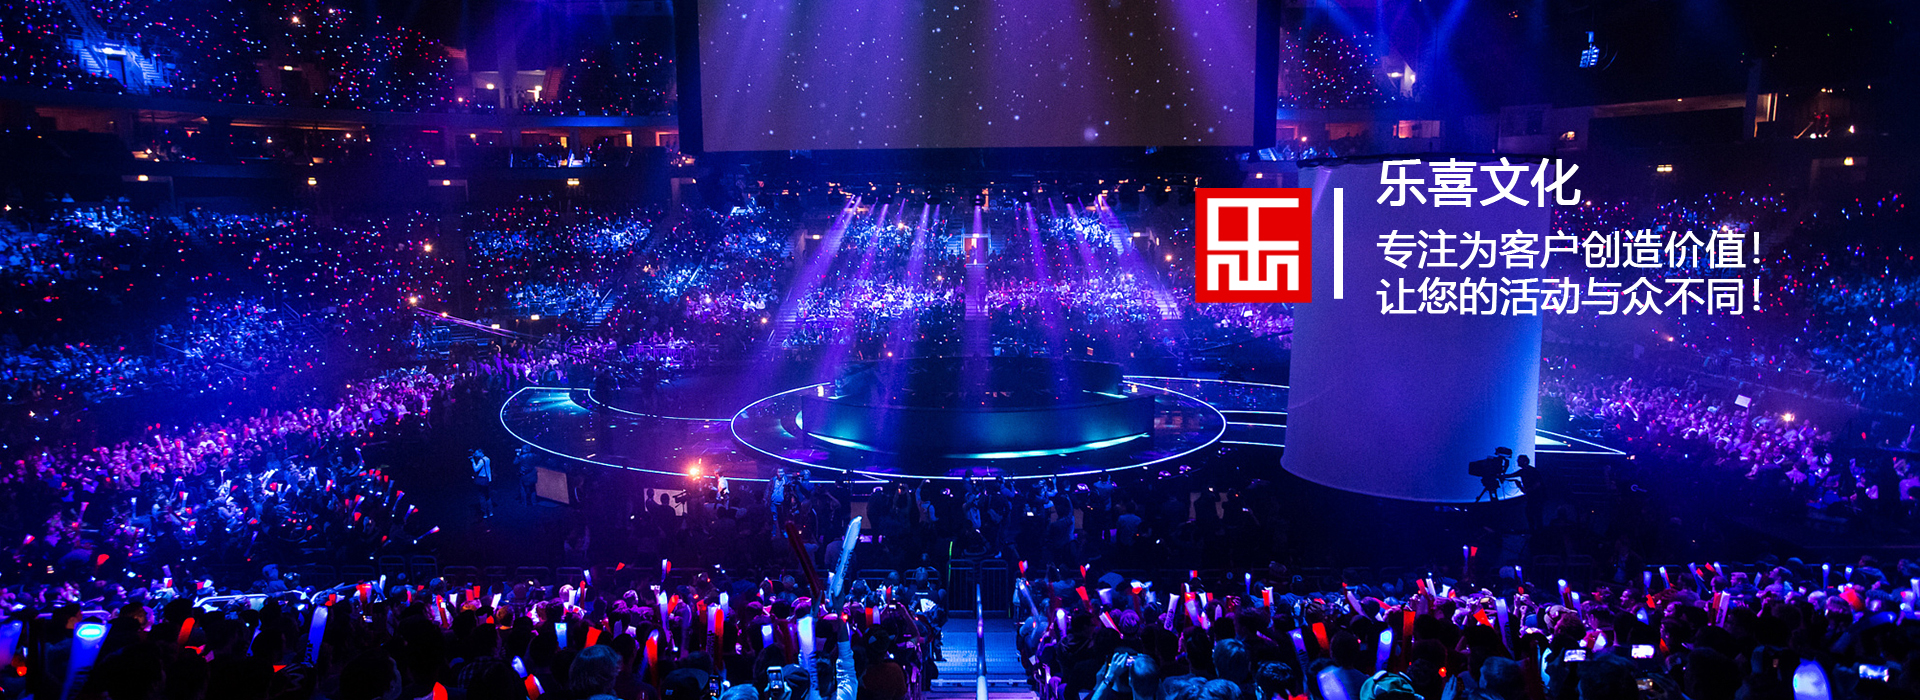
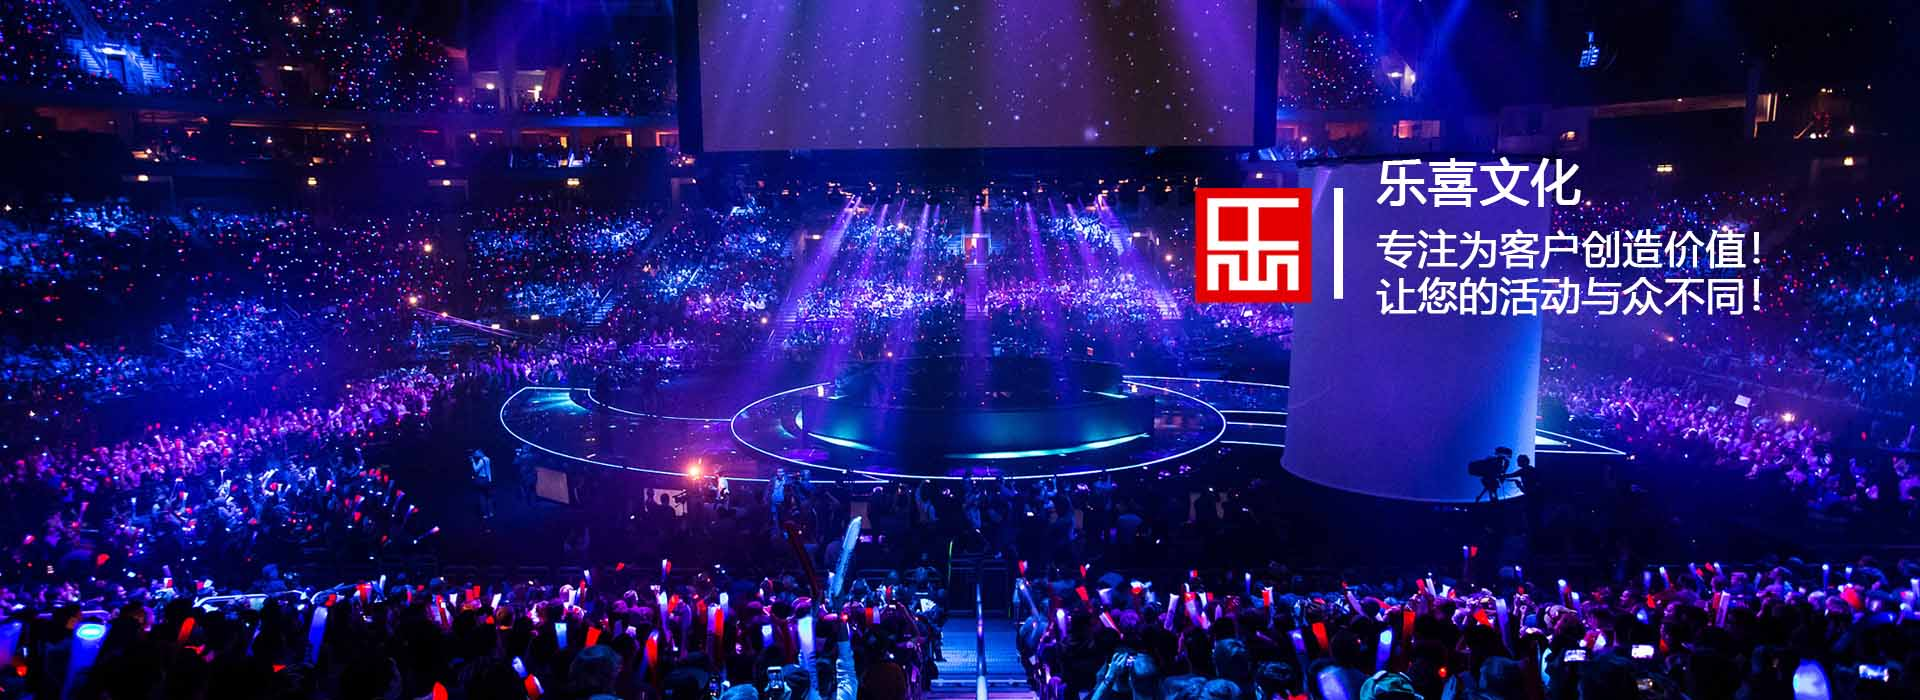
修改图片，替换小的图片，解决加载慢问题。

diff --git a/src/case.html b/src/case.html
@@ -100,7 +100,7 @@
       <div class="case-item">
         <!-- 图片 -->
         <a href="./case.html?item=guoji" target="_blank">
-          <img src="./images/case/guoji/guoji-01.png" alt="">
+          <img src="./images/case/guoji/guoji-01.jpg" alt="">
         </a>
         <!-- 标题 -->
         <a class="case-title" href="./case.html?item=guoji" target="_blank">国际花卉园艺展览会活动</a>
@@ -114,7 +114,7 @@
       <div class="case-item">
         <!-- 图片 -->
         <a href="./case.html?item=jiashi" target="_blank">
-          <img src="./images/case/jiashi/jiashi-01.png" alt="">
+          <img src="./images/case/jiashi/jiashi-01.jpg" alt="">
         </a>
         <!-- 标题 -->
         <a class="case-title" href="./case.html?item=jiashi" target="_blank">嘉士伯啤酒品鉴会活动</a>
@@ -128,7 +128,7 @@
       <div class="case-item">
         <!-- 图片 -->
         <a href="./case.html?item=qinghua" target="_blank">
-          <img src="./images/case/qinghua/qianghua-01.png" alt="">
+          <img src="./images/case/qinghua/qianghua-01.jpg" alt="">
         </a>
         <!-- 标题 -->
         <a class="case-title" href="./case.html?item=qinghua" target="_blank">清华同方年会</a>
@@ -143,12 +143,12 @@
     <!-- 地平线年会 -->
     <div class="dipingxian">
       <div class="title">地平线年会:</div>
-      <img src="./images/case/dipingxian/diping-011.png" alt="">
-      <img src="./images/case/dipingxian/diping-02.png" alt="">
-      <img src="./images/case/dipingxian/diping-03.png" alt="">
-      <img src="./images/case/dipingxian/diping-04.png" alt="">
-      <img src="./images/case/dipingxian/diping-05.png" alt="">
-      <img src="./images/case/dipingxian/diping-06.png" alt="">
+      <img src="./images/case/dipingxian/diping-011.jpg" alt="">
+      <img src="./images/case/dipingxian/diping-02.jpg" alt="">
+      <img src="./images/case/dipingxian/diping-03.jpg" alt="">
+      <img src="./images/case/dipingxian/diping-04.jpg" alt="">
+      <img src="./images/case/dipingxian/diping-05.jpg" alt="">
+      <img src="./images/case/dipingxian/diping-06.jpg" alt="">
     </div>
 
     <!-- 福特全系静展营销活动 -->
@@ -164,35 +164,35 @@
     <!-- 国际花卉园艺展览会活动 -->
     <div class="guoji">
       <div class="title">国际花卉园艺展览会活动:</div>
-      <img src="./images/case/guoji/guoji-01.png" alt="">
-      <img src="./images/case/guoji/guoji-02.png" alt="">
-      <img src="./images/case/guoji/guoji-03.png" alt="">
-      <img src="./images/case/guoji/guoji-04.png" alt="">
-      <img src="./images/case/guoji/guoji-05.png" alt="">
-      <img src="./images/case/guoji/guoji-06.png" alt="">
+      <img src="./images/case/guoji/guoji-01.jpg" alt="">
+      <img src="./images/case/guoji/guoji-02.jpg" alt="">
+      <img src="./images/case/guoji/guoji-03.jpg" alt="">
+      <img src="./images/case/guoji/guoji-04.jpg" alt="">
+      <img src="./images/case/guoji/guoji-05.jpg" alt="">
+      <img src="./images/case/guoji/guoji-06.jpg" alt="">
     </div>
 
     <!-- 嘉士伯啤酒品鉴会活动 -->
     <div class="jiashi">
       <div class="title">嘉士伯啤酒品鉴会活动:</div>
-      <img src="./images/case/jiashi/jiashi-01.png" alt="">
-      <img src="./images/case/jiashi/jiashi-02.png" alt="">
-      <img src="./images/case/jiashi/jiashi-03.png" alt="">
-      <img src="./images/case/jiashi/jiashi-04.png" alt="">
-      <img src="./images/case/jiashi/jiashi-05.png" alt="">
-      <img src="./images/case/jiashi/jiashi-06.png" alt="">
-      <img src="./images/case/jiashi/jiashi-07.png" alt="">
+      <img src="./images/case/jiashi/jiashi-01.jpg" alt="">
+      <img src="./images/case/jiashi/jiashi-02.jpg" alt="">
+      <img src="./images/case/jiashi/jiashi-03.jpg" alt="">
+      <img src="./images/case/jiashi/jiashi-04.jpg" alt="">
+      <img src="./images/case/jiashi/jiashi-05.jpg" alt="">
+      <img src="./images/case/jiashi/jiashi-06.jpg" alt="">
+      <img src="./images/case/jiashi/jiashi-07.jpg" alt="">
     </div>
 
     <!-- 清华同方年会 -->
     <div class="qinghua">
       <div class="title">清华同方年会:</div>
-      <img src="./images/case/qinghua/qianghua-01.png" alt="">
-      <img src="./images/case/qinghua/qianghua-02.png" alt="">
-      <img src="./images/case/qinghua/qianghua-03.png" alt="">
-      <img src="./images/case/qinghua/qianghua-04.png" alt="">
-      <img src="./images/case/qinghua/qianghua-05.png" alt="">
-      <img src="./images/case/qinghua/qianghua-06.png" alt="">
+      <img src="./images/case/qinghua/qianghua-01.jpg" alt="">
+      <img src="./images/case/qinghua/qianghua-02.jpg" alt="">
+      <img src="./images/case/qinghua/qianghua-03.jpg" alt="">
+      <img src="./images/case/qinghua/qianghua-04.jpg" alt="">
+      <img src="./images/case/qinghua/qianghua-05.jpg" alt="">
+      <img src="./images/case/qinghua/qianghua-06.jpg" alt="">
     </div>
 
 
